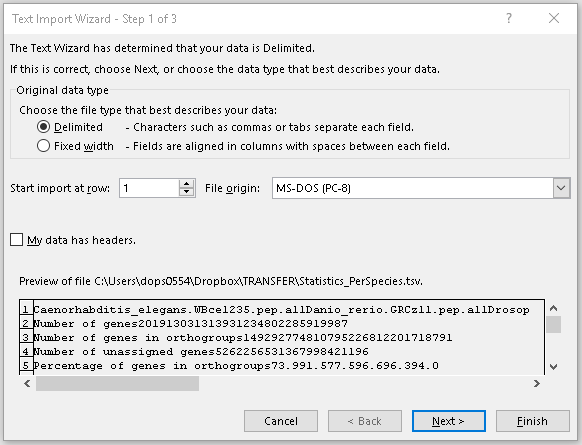
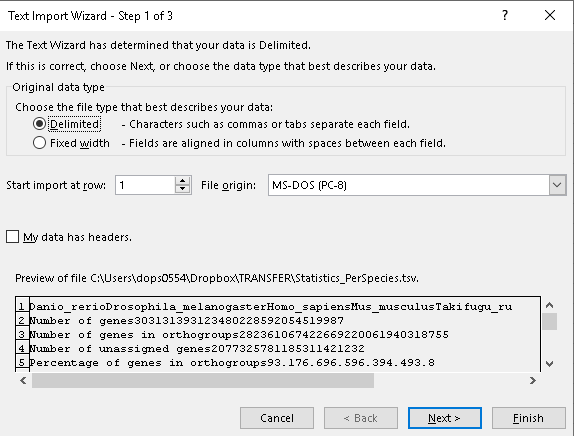
Change example species set

Changed region(s): [[0.0, 0.0, 1.0, 1.0]]

diff --git a/_posts/2019-09-18-030-diving-into-the-results.md b/_posts/2019-09-18-030-diving-into-the-results.md
@@ -20,7 +20,7 @@ By default OrthoFinder creates a results directory called 'OrthoFinder' inside t
 
 ## Quality Control: Percentage of genes in orthogroups
 The first thing I like to check is how many genes were assigned to orthogroups. In the output from OrthoFinder it printed this text:
-> OrthoFinder assigned 116961 genes (89.4% of total) to 18098 orthogroups.
+> OrthoFinder assigned 121743 genes (92.9% of total) to 17981 orthogroups.
 
 (This info is also in **Comparative_Genomics_Statistics/Statistics_Overall.tsv**.) 
 
@@ -34,59 +34,59 @@ That's pretty good, in general it's nice to see at least 80% of your genes assig
  <img src="{{ site.github.url }}/assets/img/Excel1.png">
  <img src="{{ site.github.url }}/assets/img/Excel2.png">
 
-Once you've opened this file you'll see that the vertebrates all have over 90% of their genes assigned to orthogroups whereas *Drosophila* and *C. elegans* are between 70-80%. This is probably due to species sampling. The four vertebrate species are all relatively closely related whereas the species sampling around both *Drosophila* and *C. elegans* was poor. To improve this we would need to include some species that break up the long branches in the species tree separating these species from all the others.
+Once you've opened this file you'll see that the vertebrates all have over 90% of their genes assigned to orthogroups whereas *Drosophila* has about 76% of its genes assigned. This is probably due to species sampling. The four vertebrate species are all relatively closely related whereas the species sampling around both *Drosophila* and *C. elegans* was poor. To improve this we would need to include some species that break up the long branches in the species tree separating these species from all the others.
 
 ## Species Tree
 Let's look at the species tree next. [Dendroscope](http://dendroscope.org/) is a tree viewer you can download and run locally and is the best option if you're going to look at more than a few trees. Alternatively, there are also a number of options you can run from you're web browser, e.g. the [ETE Toolkit tree viewer](http://etetoolkit.org/treeview/). Using one of these, open the file **Species_Tree/SpeciesTree_rooted.txt**. As this file has bootstrap values Dendroscope will need you to select the option "Interpret as edge labels" to view them correctly. The species tree looks like this:
 
  <img src="{{ site.github.url }}/assets/img/SpeciesTree_rooted.png">
 
- This tree has been inferred by OrthoFinder using the [STAG](https://doi.org/10.1101/267914) algorithm and rooted using the [STRIDE](https://doi.org/10.1093/molbev/msx259) algoirithm so it's ready to interpret (ordinarily you would have to root a tree yourself). You can see here that *Drosophila* and *C. elegans* are on longer branches than the other species, as mentioned above. If you know what the species tree should look like, you should check that the tree matches what you expect. The tree OrthoFinder inferred here is correct.
+ This tree has been inferred by OrthoFinder using the [STAG](https://doi.org/10.1101/267914) algorithm and rooted using the [STRIDE](https://doi.org/10.1093/molbev/msx259) algoirithm so it's ready to interpret (ordinarily you would have to root a tree yourself first). You can see here that *Drosophila* is on longer branches than the other species, as mentioned above. If you know what the species tree should look like, you should check that the tree matches what you expect. The tree OrthoFinder inferred here is correct.
  
  If the species tree is not correct then this will not impact the orthogroup inference, but it might affect the orthologue inference in some of the gene trees which have gene duplication events. In this case, you'll probably want to run the very last bit of the OrthoFinder analysis again with the corrected species tree (`-ft` and `-s` options). This is generally pretty quick, as all the computationally expensive calculation (inference of orthogroups and gene trees etc.) has already been done. See [Getting the most from your OrthoFinder analysis](/orthofinder_tutorials/040-getting-the-most-from-your-orthofinder-analysis.html).
  
  > Aside:
- > You'll notice in this tree that the support values are not all 100%, which you might have expected them to be for this dataset. With the default options, species tree inference is performed with [STAG](https://www.biorxiv.org/content/10.1101/267914v1), which uses the proportion of species trees derived from **single-locus gene trees** supporting each bipartition as its measure of support. This is a more stringent measure. If instead the "-M msa" option had been used then a concatenated multiple sequence alignment would have been used for the species tree inference instead and support values of 100% would have been seen for all bipartition. In this case the support values correspond to bootstrap replicates taken from the full, **multi-gene alignment**, which is a different thing entirely. This is the most common measure for support and will always report higher support values for the same data.
+ > You'll notice in this tree that the support values are not all 100%, which you might have expected them to be for this dataset. With the default options, species tree inference is performed with [STAG](https://www.biorxiv.org/content/10.1101/267914v1), which uses the proportion of species trees derived from **single-locus gene trees** supporting each bipartition as its measure of support. This is a more stringent measure than standard bootstrap support from a multiple sequence alignment. If instead the "-M msa" option had been used then a concatenated multiple sequence alignment would have been used for the species tree inference instead and support values of 100% would have been seen for all bipartition. In this case the support values correspond to bootstrap replicates taken from the full, **multi-gene alignment**, which is a different thing entirely. This is the most common measure for support and will always report higher support values for the same data.
 
 ## Orthologues
-One of the most common reasons for running OrthoFinder is to find the orthologue of a gene you're interested in. Let's look at the orthologues of the *Drosophila* gene FBgn0002973, which is involved in the cleavage and polyadenylation steps of the nuclear cleavage/polyadenylation reaction (see [FlyBase](http://flybase.org/reports/FBgn0005648.html)). This is an interesting gene since there have been two gene duplication events in the lineage leading to humans, as we'll see. Let's find out what it's orthologues are in human.
+One of the most common reasons for running OrthoFinder is to find the orthologue of a gene you're interested in. Let's look at the orthologues of the *Drosophila* gene FBgn0005648, which is involved in the cleavage and polyadenylation steps of the nuclear cleavage/polyadenylation reaction (see [FlyBase](http://flybase.org/reports/FBgn0005648.html)). This is an interesting gene since there have been two gene duplication events in the lineage leading to humans, as we'll see. Let's find out what it's orthologues are in human.
 
-In the **Orthologues** directory there is a sub-directory for each species. Open **Orthologues/Orthologues_Drosophila_melanogaster/Drosophila_melanogaster__v__Homo_sapiens.tsv** in a spreadsheet program (specifying that it's tab-delimited if necessary). The file has three columns, "Orthogroup", "Drosophila_melanogaster" and "Homo_sapiens". Find "FBgn0005648" in the table, you'll see that the gene is in orthogroup OG0002001 and that it has three orthologues in human: ENSG00000205022, ENSG00000100836, ENSG00000258643. 
+In the **Orthologues** directory there is a sub-directory for each species. Open **Orthologues/Orthologues_Drosophila_melanogaster/Drosophila_melanogaster__v__Homo_sapiens.tsv** in a spreadsheet program (specifying that it's tab-delimited if necessary). The file has three columns, "Orthogroup", "Drosophila_melanogaster" and "Homo_sapiens". Find "FBgn0005648" in the table, you'll see that the gene is in orthogroup OG0001189 and that it has three orthologues in human: ENSG00000205022, ENSG00000100836, ENSG00000258643. 
 
 ## Gene Trees
 <!--- (There's an introduction to gene trees here: [Understanding gene trees](/orthofinder_tutorials/understanding-gene-trees.md))--->
 
-We've found that FBgn0005648 has three orthologues in human. Next we're going to look at the gene tree to see if we agree with this and to see how these three orthologues arose. Open **Gene_Trees/OG0002001_tree.txt** with Dendroscope or a web-based viewer.
+We've found that FBgn0005648 has three orthologues in human. Next we're going to look at the gene tree to see if we agree with this and to see how these three orthologues arose. Open **Gene_Trees/OG0001189_tree.txt** with Dendroscope or a web-based viewer.
 
-<img src="{{ site.github.url }}/assets/img/OG0002001_tree.png">
+<img src="{{ site.github.url }}/assets/img/OG0001189_tree.png">
 
-If you are used to inferring and looking at gene trees the first thing you'll notice is that OrthoFinder has automatically rooted the tree for you&mdash;the tree is rooted on the *C. elegans* gene WBGene00003904. This makes it really convenient for quickly checking gene trees and is especially useful for more complex, harder to interpret gene trees. 
+If you are used to inferring and looking at gene trees the first thing you'll notice is that OrthoFinder has automatically rooted the tree for you&mdash;the tree is rooted on the *Drosophila* gene FBgn0005648. This makes it really convenient for quickly checking gene trees and is especially useful for more complex, harder to interpret gene trees. 
 
->Aside: The default gene trees don't have support values. OrthoFinder has, after all, assigned ~117,000 genes into orthogroups and inferred over 16,000 gene trees for these genes in about 15 minutes! We'll discuss how to get support values in a later tutorial.
+>Aside: The default gene trees don't have support values. OrthoFinder has, after all, assigned ~121,000 genes into orthogroups and inferred almost 18,000 gene trees for these genes in about 15 minutes! We'll discuss how to get support values in a later tutorial.
 
-Looking at the gene tree we can see that two gene duplication events occurred, one shared by the tetrapods and a second shared by human and mouse. This has resulted in a one-to-three orthology relationship, i.e. all three of the human genes are equally closely related to the one *Drosophila* gene. It's often the case that orthology relationships aren't one-to-one, and it's important to know this&mdash;you don't want to spend months doing experiments on 'the orthologue' only to find out later there are actually three!
+Looking at the gene tree we can see that two gene duplication events occurred, one shared by the vertebrates and a second shared by human and mouse. This has resulted in a one-to-three orthology relationship, i.e. all three of the human genes are equally closely related to the one *Drosophila* gene. It's often the case that orthology relationships aren't one-to-one, and it's important to know this&mdash;you don't want to spend months doing experiments on 'the orthologue' only to find out later there are actually three!
 
 We can look at the page for this gene on FlyBase: <http://flybase.org/reports/FBgn0005648.html>. If you go down to the "Orthologs" section, and then look at "Human Orthologs" you'll see that the only methods that identified all three of these orthologues were the tree-based methods Compara, eggNOG, OrthoFinder and TreeFam. OrthoFinder is the only one that you can run on your own data. The score-based methods such as Hieranoid, Inparanoid, OMA and OrthoMCL identified only one, or none, of these orthologues. Gene trees are particularly important for identifying and resolving these complex relationships.
 
 ## Gene Duplication Events
-Having the gene trees means that OrthoFinder can identify all gene duplication events that occurred. Let's look at those that happened in the common ancestor of the vertebrates. OrthoFinder labels the nodes of the species tree in the file **Species_Tree/SpeciesTree_rooted_node_labels.txt**, open this with Dendropscope and tell it to "Interpret as node labels". We'll look at the node 'N3', the common ancestor of tetrapods (i.e. *X. tropicalis*, *H. sapiens* and *M. musculus*). There are two files that give details about the gene duplications events. Let's first open **Gene_Duplication_Events/SpeciesTree_Gene_Duplications_0.5_Support.txt** in Dendroscope. 
+Having the gene trees means that OrthoFinder can identify all gene duplication events that occurred. Let's look at those that happened in the common ancestor of the vertebrates. OrthoFinder labels the nodes of the species tree in the file **Species_Tree/SpeciesTree_rooted_node_labels.txt**, open this with Dendropscope and tell it to "Interpret as node labels". We'll look at the node 'N1', the common ancestor of vertebrates (i.e. *D. rerio*, *T. rubripes*, *X. tropicalis*, *H. sapiens* and *M. musculus*). There are two files that give details about the gene duplications events. Let's first open **Gene_Duplication_Events/SpeciesTree_Gene_Duplications_0.5_Support.txt** in Dendroscope. 
 
 
 <img src="{{ site.github.url }}/assets/img/SpeciesTree_Gene_Duplications_0.5_Support.png">
 
-This gives a summary of gene duplication events. Each node shows the number of well-supported gene duplication events mapped to each node in the species tree. Gene-duplication events are considered 'well-supported' if at least 50% of the descendant species have retained both copies of the duplicated gene. For the common ancestor of the tetrapods, N3, there were 261 of these well-supported gene duplication events. We can see the list of these gene duplication events in the file **Gene_Duplication_Events/Duplications.tsv**. Here are just a few lines from the file, sorted by the species tree node on which they occurred:
+This gives a summary of gene duplication events. Each node shows the node name followed by an underscore and then the number of well-supported gene duplication events mapped to each node in the species tree. Gene-duplication events are considered 'well-supported' if at least 50% of the descendant species have retained both copies of the duplicated gene. For the common ancestor of the tetrapods, N1, there were 2458 of these well-supported gene duplication events. We can see the list of these gene duplication events in the file **Gene_Duplication_Events/Duplications.tsv**. Here are just a few lines from the file, sorted by the species tree node on which they occurred:
 
-[ ![]({{ site.github.url }}/assets/img/Gene_Duplication_Events_N3.png) ]({{ site.github.url }}/assets/img/Gene_Duplication_Events_N3.png)
+[ ![]({{ site.github.url }}/assets/img/Gene_Duplication_Events_N1.png) ]({{ site.github.url }}/assets/img/Gene_Duplication_Events_N3.png)
 
-Each gene duplication event is cross-referenced to the species tree node, the orthogroup/gene tree in which it occurred and the location in that gene tree. It also lists the genes descended from each of the two copies arising from the gene duplication event. We can check this out for our FBgn0005648 orthologues. For this we need to look at the gene tree in the **Resolved_Gene_Trees/OG0002001_tree.txt**. This directory contains the gene trees with the nodes labelled. These files show how OrthoFinder interpreted the gene trees when inferring orthologues and gene duplication events. They can differ slightly from the original gene trees that came directly from the tree inference step (available in **Gene_Trees/**). To get the Resolved Gene Trees OrthoFinder carries out a Duplication-Loss-Coalescence analysis to identify the more parsimonious interpretation of the tree.
+Each gene duplication event is cross-referenced to the species tree node, the orthogroup/gene tree in which it occurred and the node in that gene tree. It also lists the genes descended from each of the two copies arising from the gene duplication event. We can check this out for our FBgn0005648 orthologues. For this we need to look at the gene tree in the **Resolved_Gene_Trees/OG0001189_tree.txt**. This directory contains the gene trees with the nodes labelled. These files show how OrthoFinder interpreted the gene trees when inferring orthologues and gene duplication events. They can differ slightly from the original gene trees that came directly from the tree inference step (available in **Gene_Trees/**). To get the Resolved Gene Trees OrthoFinder carries out a Duplication-Loss-Coalescence analysis to identify the more parsimonious interpretation of the tree.
 
-<img src="{{ site.github.url }}/assets/img/OG0002001_resolved_tree.png">
+<img src="{{ site.github.url }}/assets/img/OG0001189_resolved_tree.png">
 
-Reading from the table, there was a gene duplication event at node n3 with both copies 100% retained in all the descendant species. Looking at the tree, the second gene duplication event was on node n7, and if we go back to the table we can see that this one is listed as well:
+Reading from the table, there was a gene duplication event at node n1 with both copies 100% retained in all the descendant species. Looking at the tree, the second gene duplication event was on node n10, and if we go back to the table we can see that this one is listed as well as the terminal gene duplication event in *Danio rerio*:
 
-[ ![]({{ site.github.url }}/assets/img/OG0002001_duplications_partial.png) ]({{ site.github.url }}/assets/img/OG0002001_duplications_partial.png)
+[ ![]({{ site.github.url }}/assets/img/OG0001189_duplications_partial.png) ]({{ site.github.url }}/assets/img/OG0001189_duplications_partial.png)
 
-If you're interested in gene duplication events then this table contains a lot of data. Across these six species OrthoFinder identified 39,174 gene duplication events, all of which are cross-referenced to the gene tree in which they occurred! These events are also summarised by orthogroup and by species tree node in the files **Duplications_per_Orthogroup.tsv** and **Duplications_per_Species_Tree_Node.tsv** which are both in the directory **Comparative_Genomics_Statistics/**.
+If you're interested in gene duplication events then this table contains a lot of data. Across these six species OrthoFinder identified 34,065 gene duplication events, all of which are cross-referenced to the node of the species tree and gene tree on which they occurred! These events are also summarised by orthogroup and by species tree node in the files **Duplications_per_Orthogroup.tsv** and **Duplications_per_Species_Tree_Node.tsv** which are both in the directory **Comparative_Genomics_Statistics/**.
 
 ## Orthogroups
 Often we're interested in group-wise species comparisons, that is comparisons across a clade of species rather than between a pair of species. The generalisation of orthology to multiple species is the orthogroup. Just like orthologues are the genes descended from a single gene in the last common ancestor of a pair of species an orthogroup is the set of genes descended from a single gene in a group of species. Each gene tree from OrthoFinder, for example the one above, is for one orthogroup. The orthogroup gene tree is the tree we need to look at if we want it to include all pairwise orthologues. And even though some of the genes within an orthogroup can be paralogs of one another, if we tried to take any genes out then we would also be removing orthologs too.

diff --git a/_posts/2019-09-18-020-running-your-own-orthofinder-analysis.md b/_posts/2019-09-18-020-running-your-own-orthofinder-analysis.md
@@ -15,7 +15,7 @@ In the first tutorial you downloaded OrthoFinder and checked you could run it on
 In this tutorial we're going to download the proteomes for a set of species we want to analyse, tidy the files up a little and run OrthoFinder on those species. In the next tutorial we'll dive into the results. 
 
 ## Downloading proteomes for our species
-We're going to perform a phylogenomic analysis across a set of model species: mouse, human, frog, zebrafish, fruit fly and *Caenorhabditis elegans*. If you've returned to this tutorial to guide you through your own analysis you may want check out the advice on species selection in the post, [Getting the most from your OrthoFinder analysis](/orthofinder_tutorials/040-getting-the-most-from-your-orthofinder-analysis.html).
+We're going to perform a phylogenomic analysis across a set of model species: mouse, human, frog, zebrafish, Japanese puffer (*Takifugu rubripes*) and fruit fly (*Drosophila melanogaster*). If you've returned to this tutorial to guide you through your own analysis you may want check out the advice on species selection in the post, [Getting the most from your OrthoFinder analysis](/orthofinder_tutorials/040-getting-the-most-from-your-orthofinder-analysis.html).
 
 1. Create a folder called "proteomes". It's best if there aren't any spaces in the full path for this folder (e.g. "/home/david/orthofinder-tutorial/proteomes/" and not "/home/david/orthofinder tutorial/proteomes/").
 
@@ -26,7 +26,7 @@ We're going to perform a phylogenomic analysis across a set of model species: mo
   
 4. Click on the "pep" folder (which contains the peptide sequences) and then download the file "Homo_sapiens.GRCh38.pep.all.fa.gz" to the folder you created.
 
-5. Go back to the Ensembl main page and repeat for Mouse, Zebrafish, Tropical clawed frog (*Xenopus tropicalis*, under 'Amphibians'), *Drosophila melanogaster* and *C. elegans*. If there is a choice of files, choose the '.pep.all.fa.gz' file. 
+5. Go back to the Ensembl main page and repeat for Mouse, Zebrafish, Tropical clawed frog (*Xenopus tropicalis*, under 'Amphibians'), *Takifugu rubripes* and *Drosophila melanogaster*. If there is a choice of files, choose the '.pep.all.fa.gz' file. 
 
 6. Open a terminal and navigate to the directory that you downloaded the files to. The files are all compressed (they end in '.gz'), decompress them all using the command `gunzip *.gz`. 
 
@@ -34,7 +34,7 @@ We're going to perform a phylogenomic analysis across a set of model species: mo
 ```
 for f in *fa ; do python ~/orthofinder-tutorial/OrthoFinder/tools/primary_transcript.py $f ; done
 ```
-Shortening the filename also keeps the results tidy as the filenames are used to refer to the species, e.g. I shorten to Homo_sapiens.fa.
+Shortening the filename is also a good ideas as it keeps the results tidy as the filenames are used to refer to the species, e.g. I shorten to Homo_sapiens.fa.
 
 8. Run OrthoFinder (if you've not performed the above steps yourself but would like to run OrthoFinder you can get the prepared files here: [primary_transcripts.tar.gz]({{ site.github.url }}/assets/data/primary_transcripts.tar.gz).)
 ```
@@ -44,17 +44,14 @@ orthofinder -f primary_transcripts/
 9. That's it! It will take from around 20 mins to a few hours to run, depending on how many cores you have and the speed of your machine. Assuming everything worked fine then the last few lines of OrthoFinder's output will look something like this:
 
 ```
-Species-by-species orthologues directory:
-   /home/emms/orthofinder-tutorial/proteomes/primary_transcripts/OrthoFinder/Results_Oct11/Orthologues/
+Results:
+    /home/emms/orthofinder_tutorial/proteomes/primary_transcripts/OrthoFinder/Results_Nov26/
 
-Orthogroup statistics:
-   Statistics_PerSpecies.tsv   Statistics_Overall.tsv   Orthogroups_SpeciesOverlaps.tsv
-
-OrthoFinder assigned 116961 genes (89.4% of total) to 18098 orthogroups. Fifty percent of all genes were in orthogroups with 7 or more genes (G50 was 7) and were contained in the largest 5006 orthogroups (O50 was 5006). There were 4189 orthogroups with all species present and 1270 of these consisted entirely of single-copy genes.
+OrthoFinder assigned 121743 genes (92.9% of total) to 17981 orthogroups. Fifty percent of all genes were in orthogroups with 7 or more genes (G50 was 7) and were contained in the largest 5076 orthogroups (O50 was 5076). There were 5485 orthogroups with all species present and 1755 of these consisted entirely of single-copy genes.
 
 CITATION:
  When publishing work that uses OrthoFinder please cite:
- Emms D.M. & Kelly S. (2015), Genome Biology 16:157
+ Emms D.M. & Kelly S. (2019), Genome Biology 20:238
 
  If you use the species tree in your work then please also cite:
  Emms D.M. & Kelly S. (2017), MBE 34(12): 3267-3278
